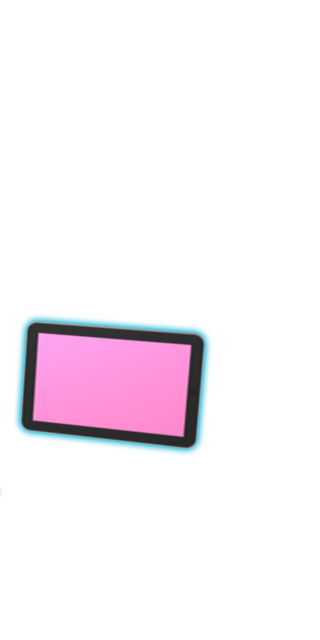
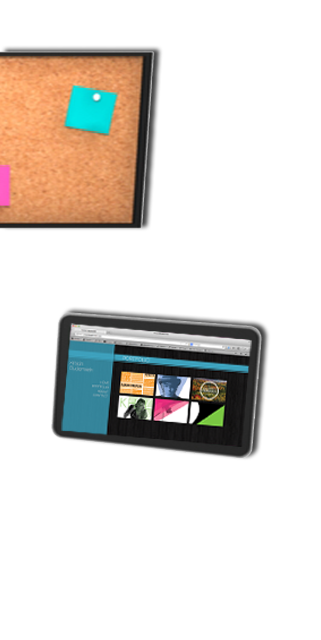
updated may version

Changed region(s): [[0.0312, 0.4688, 0.8438, 0.7188], [0.0, 0.0625, 0.5, 0.375]]

diff --git a/www/index.html b/www/index.html
@@ -49,11 +49,14 @@
 <!-- TELEVISION --> 
                    
                   
-                    <li style='display:none'>
+                <li style='display:none'>
                    
-                    <a href="http://player.vimeo.com/video/54493666" title="Sound Of Music"><img src="images/tv.png" width="100%" class="responsive" /></a></li>  
-                </ul>
-             </div>
+              		<a href="video.html"><img src="images/tv.png" width="100%" class="responsive" /></a>
+                    
+                </li>  
+                
+           	</ul>
+           </div>
                            
                            
                            
@@ -96,13 +99,13 @@
     </script>
 
 
-<!-- COMPUTER, MOBILE, TABLET PHOTOSWIPE  --> 
+<!--  PHOTOSWIPE  --> 
                   
                 
        <script>
 		$(document).ready(function(){
 				
-			var firstImages = $("#thumbnails a").photoSwipe();
+			var secondImages = $("#thumbnails a").photoSwipe();
 			var setOnePs = $(".setOne").photoSwipe(); 
 			
 		
@@ -110,6 +113,8 @@
 		</script>
         
     
+    
+
 
 
 

diff --git a/www/video.html b/www/video.html
@@ -1,0 +1,34 @@
+<!DOCTYPE html PUBLIC "-//W3C//DTD XHTML 1.0 Transitional//EN" "http://www.w3.org/TR/xhtml1/DTD/xhtml1-transitional.dtd">
+<html xmlns="http://www.w3.org/1999/xhtml">
+<head>
+<meta http-equiv="Content-Type" content="text/html; charset=UTF-8" />
+<title>Kristin's Portfolio App</title>
+
+  <link href="css/reset.css" rel="stylesheet" type="text/css" />
+  <link href="css/videoStyles.css" rel="stylesheet" type="text/css" />   
+
+</head>
+
+<body>
+
+
+<iframe src="http://player.vimeo.com/video/54493666" width="500" height="281" frameborder="0" webkitAllowFullScreen mozallowfullscreen allowFullScreen></iframe>
+
+	<div id="button">
+		<input type="button" value="Back" onclick="goBack()">
+	</div>
+
+
+
+
+	<script>
+		function goBack()
+ 		 {
+ 		 window.history.back()
+ 		 }
+	</script>
+
+
+
+</body>
+</html>

diff --git a/www/css/videoStyles.css b/www/css/videoStyles.css
@@ -1,0 +1,18 @@
+@charset "UTF-8";
+/* CSS Document */
+
+body {
+	background-color:#000;	
+	width:100%;
+}
+
+#iframe {
+	margin:auto;	
+}
+
+#button{
+	float:left;
+	margin:auto;
+	width:100%;
+	margin-top:10px;	
+}

diff --git a/www/css/styles.css b/www/css/styles.css
@@ -110,7 +110,7 @@ h1{
 
 #thumbnails li{
 	float:left;
-	width:33%;
+	width:33.33%;
 }
 
 
